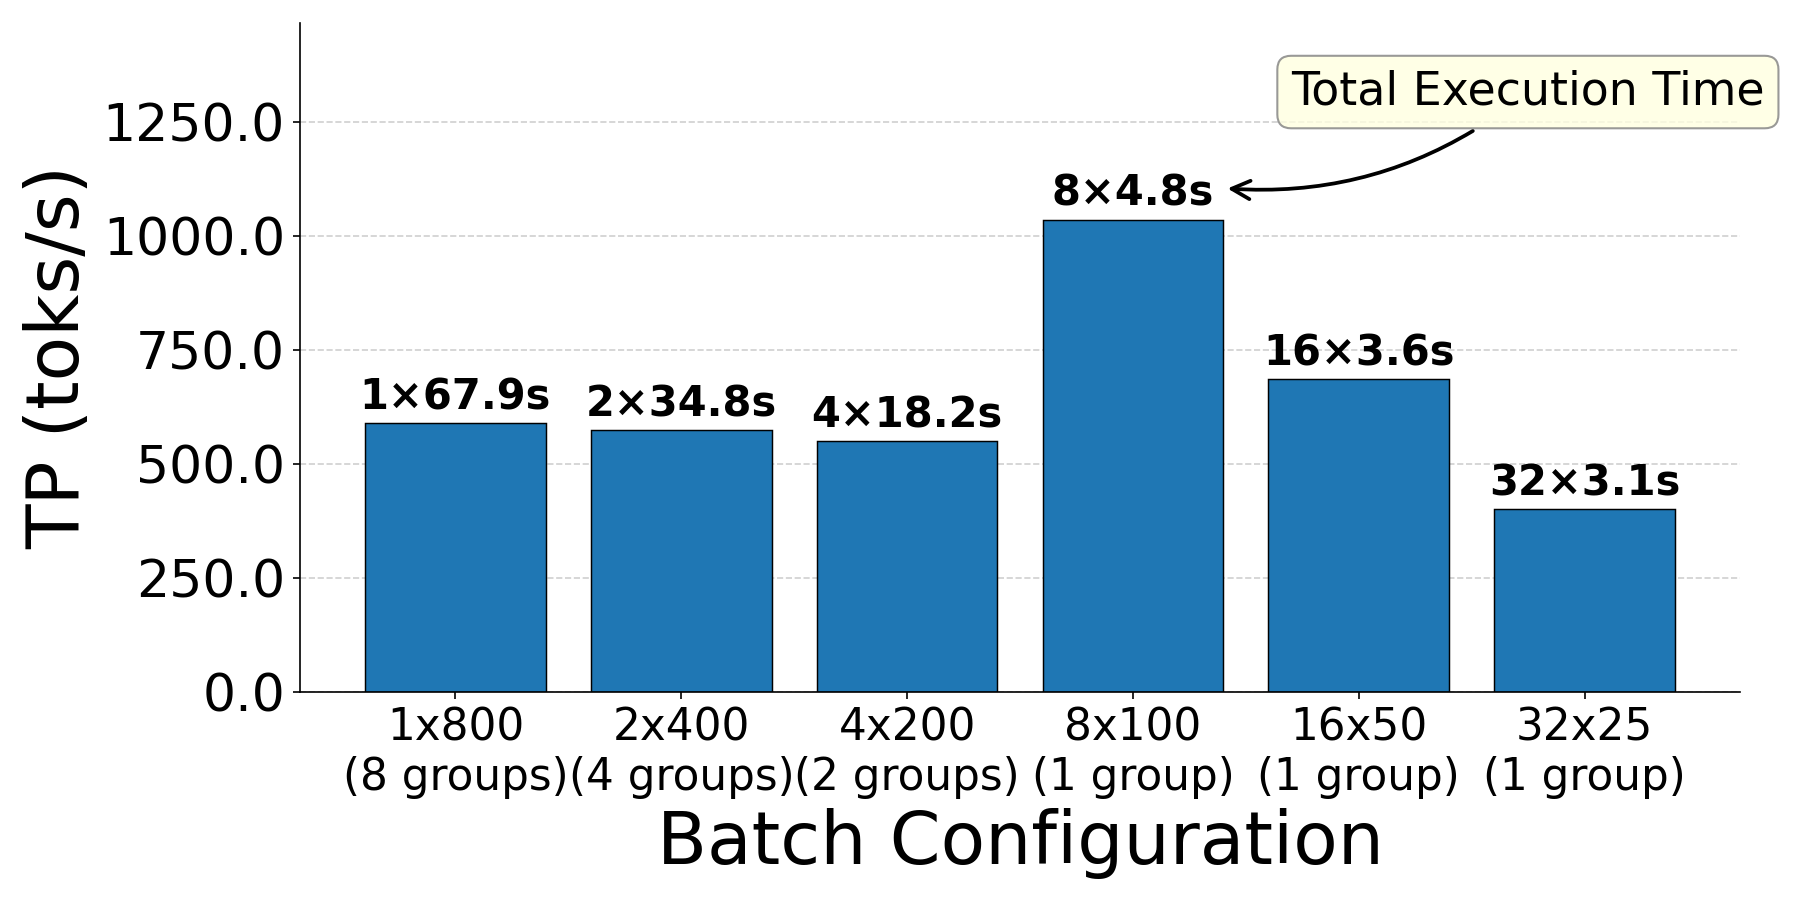
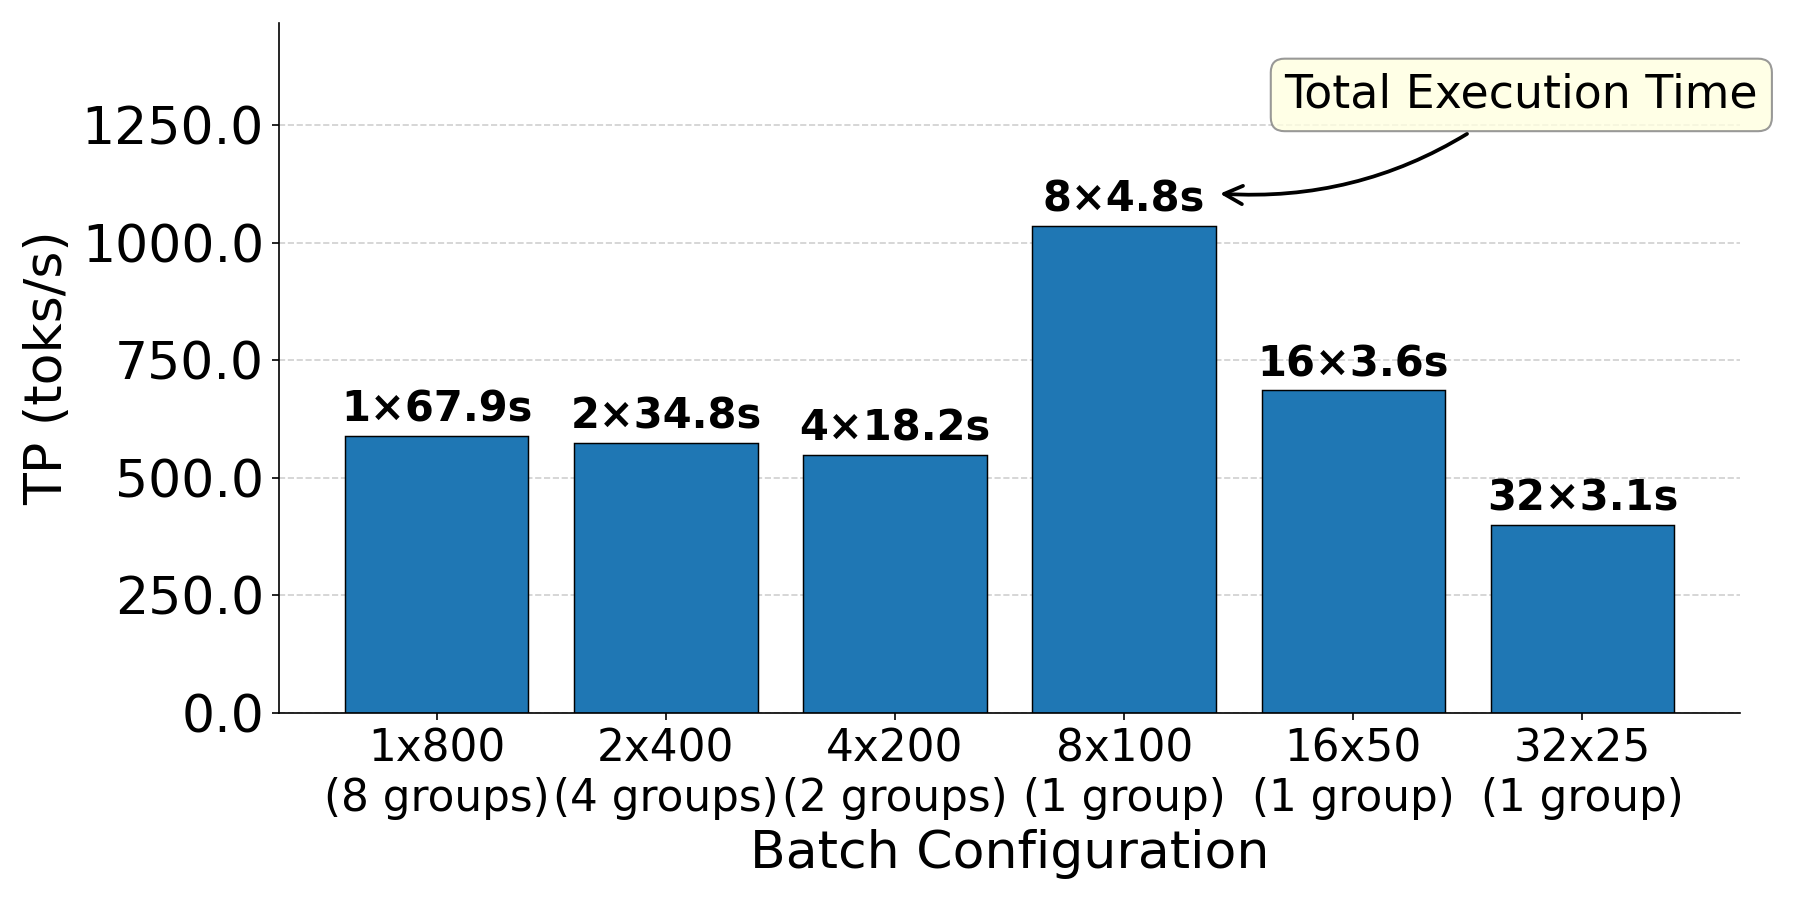
fig2

diff --git a/code/vllm/homo_hetero/plot_intro.py b/code/vllm/homo_hetero/plot_intro.py
@@ -89,8 +89,8 @@ for i, tok in enumerate(tokens):
 ax.set_xticks(x)
 ax.set_xticklabels(SETTINGS, fontsize=21)
 ax.set_yticklabels(ax.get_yticks(), fontsize=25)
-ax.set_ylabel("TP (toks/s)", fontsize=35)
-ax.set_xlabel("Batch Configuration", fontsize=35)
+ax.set_ylabel("TP (toks/s)", fontsize=25)
+ax.set_xlabel("Batch Configuration", fontsize=25)
 ax.yaxis.grid(True, linestyle="--", alpha=0.6)
 ax.set_axisbelow(True)
 ax.spines["top"].set_visible(False)
